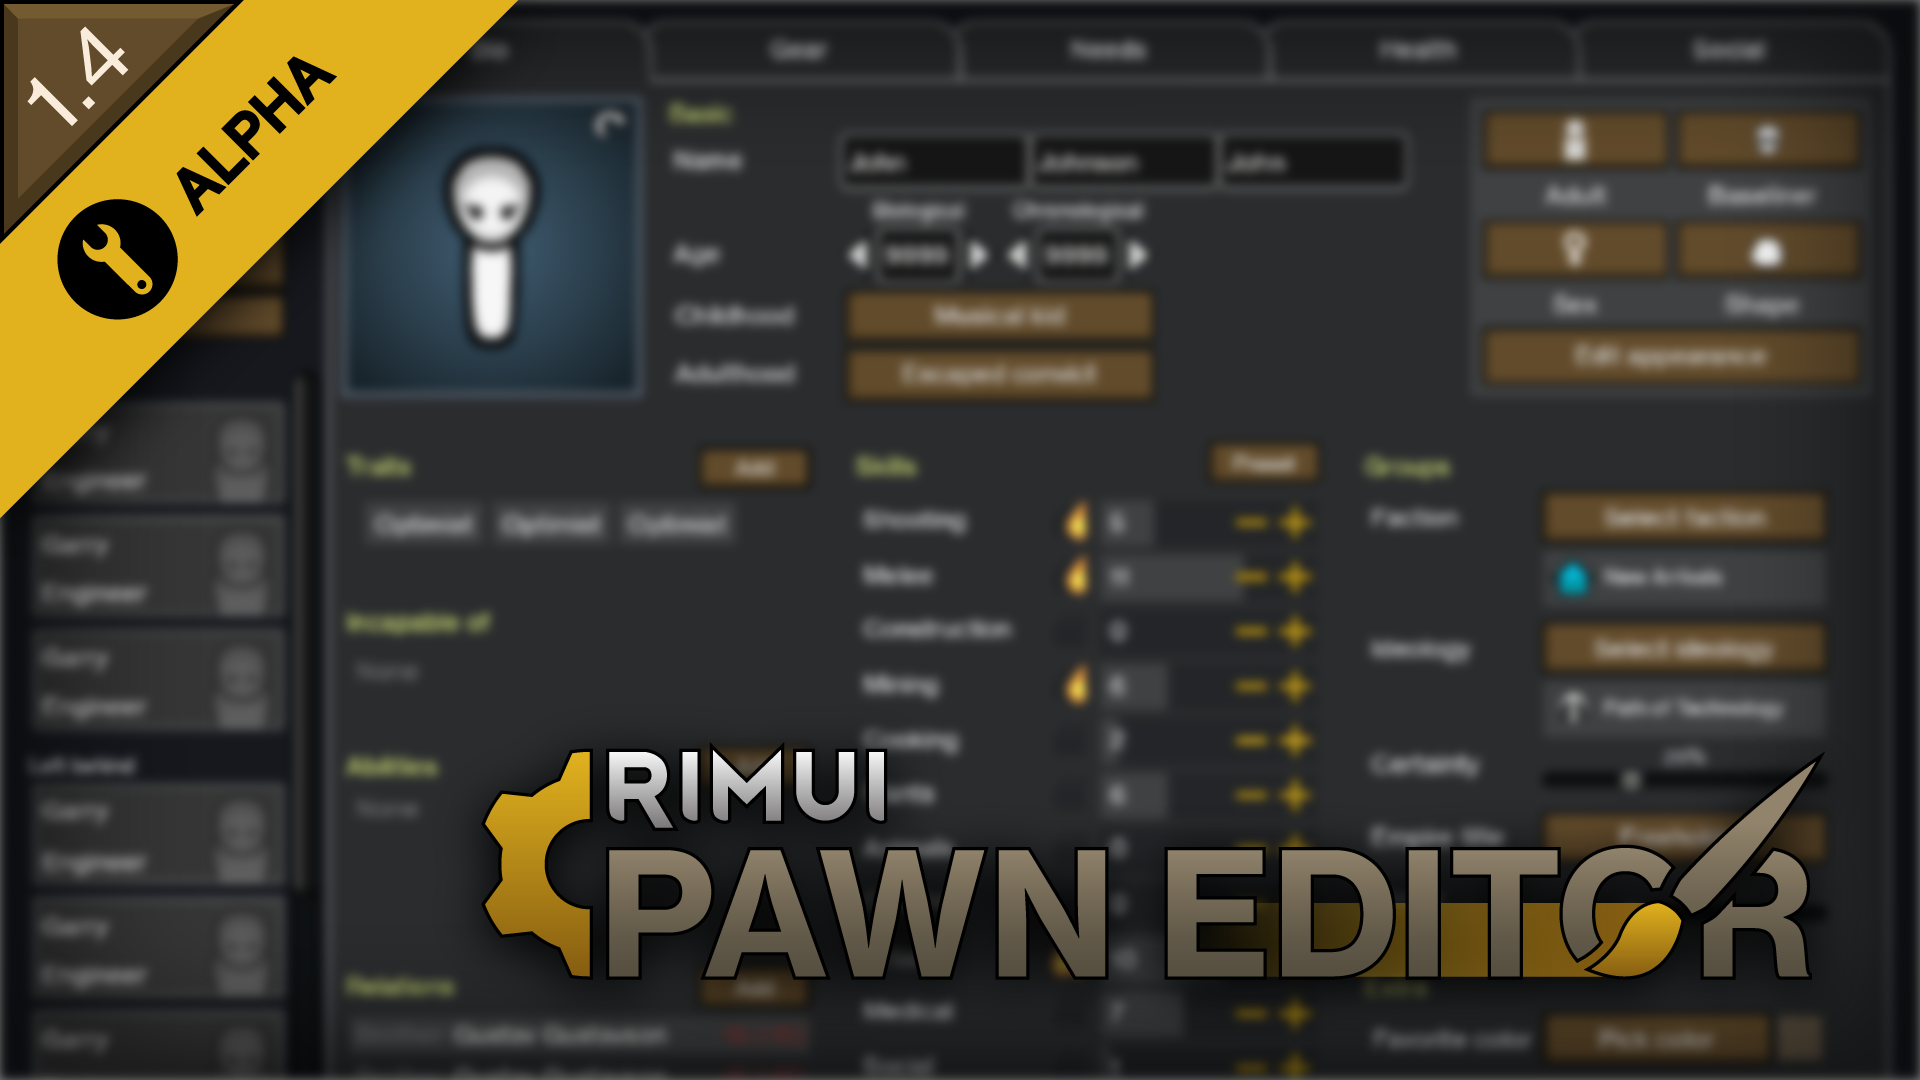
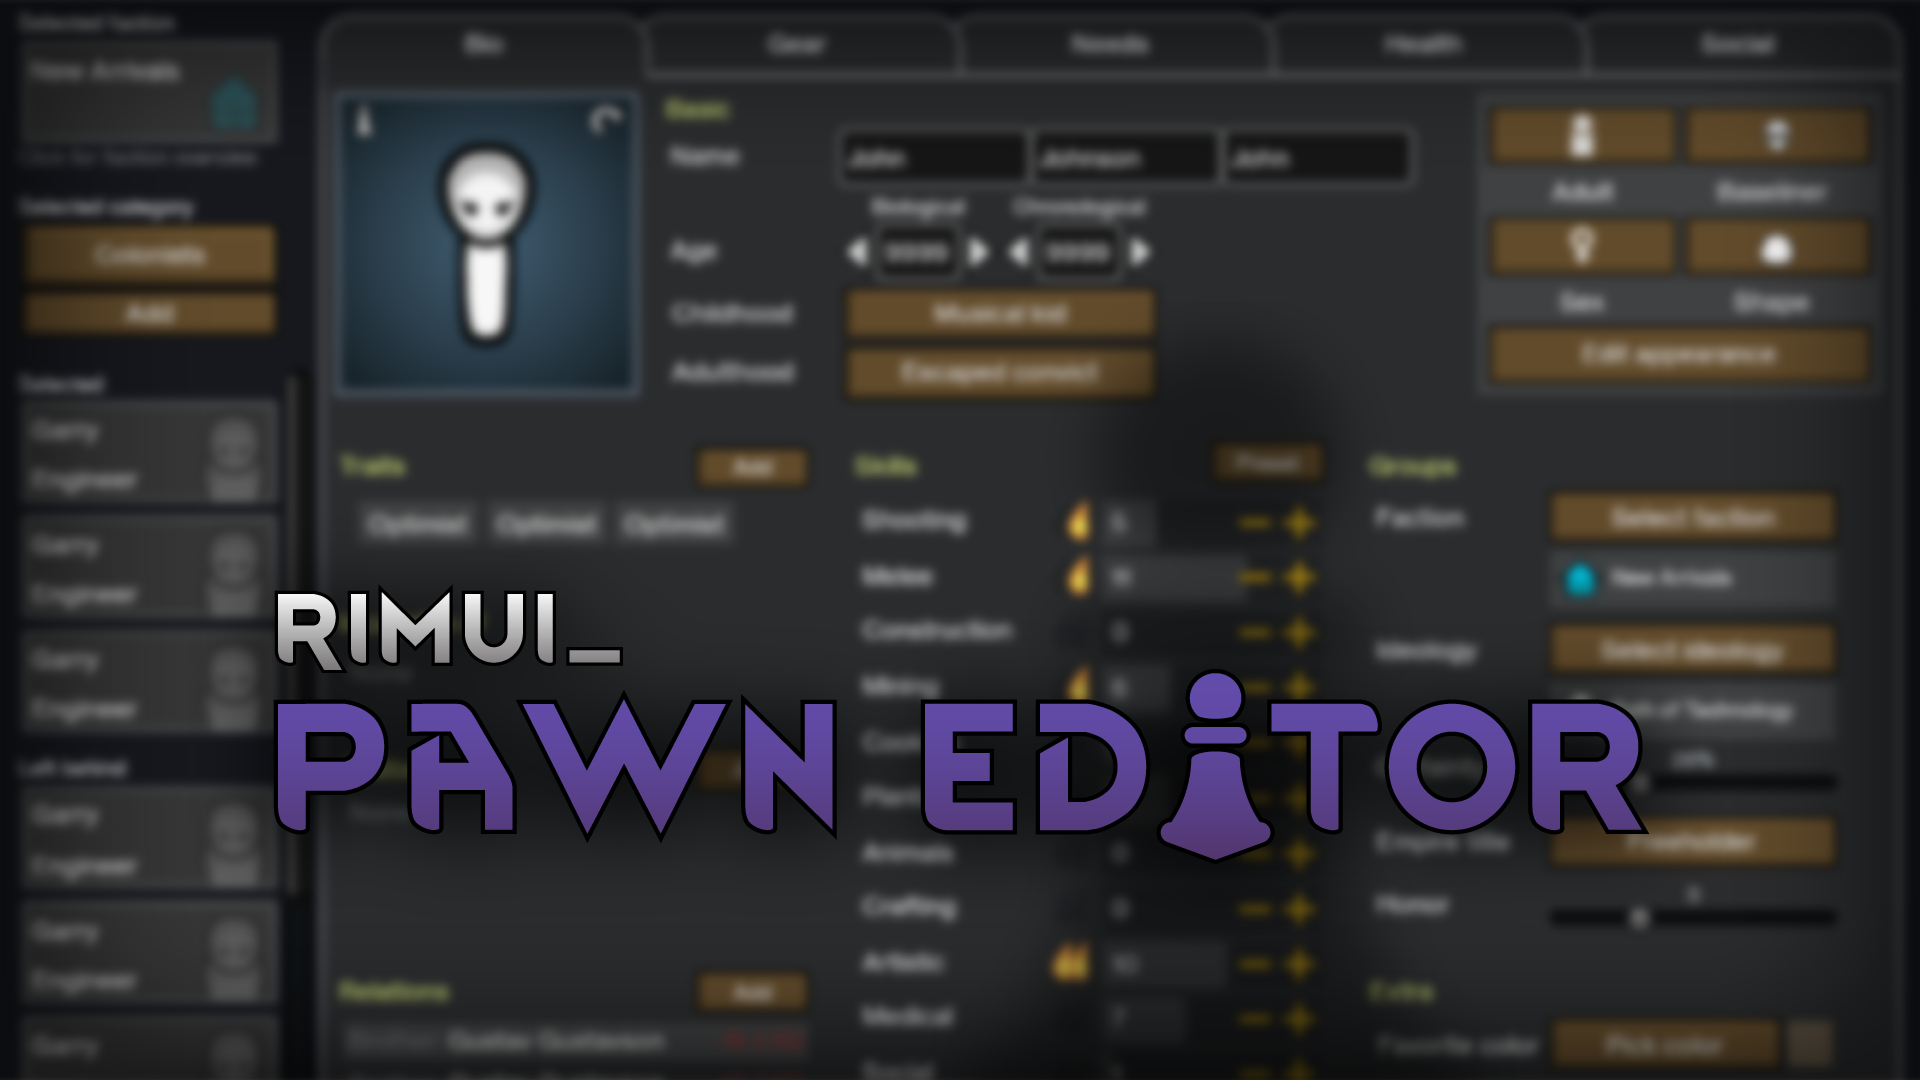
Updated about section
- Added ModIcon
- Changed preview
- Changed about.xml and readme.md

diff --git a/README.md b/README.md
@@ -1,5 +1,5 @@
-![Preview](https://github.com/ISOR3X/pawn-editor/assets/75855460/892e838c-6544-4787-bcdc-c7afe2f7fcc7)
+Steer the story in the direction you want it to go. Heal injuries, teleport missing pawns back, change backstories thatdo not fit the narrative.
 
-Description goes here.
+Pawn Editor is a new editor for your pawns inspired by great mods like Character Editor and Prepare Carefully.
 
-Link to doc: https://docs.google.com/document/d/1w9uSY4zs73SiWhwAJmiDmy2OSa6ZMssuRTLdo4xtqTI/edit
+Your last colonist exerts her final breath as she dies. Not even her ultratech armor orarchotech implants could save your colony from... a rabbit? Tend to your pawns and shape them in a way that fits the story you had in mind.
